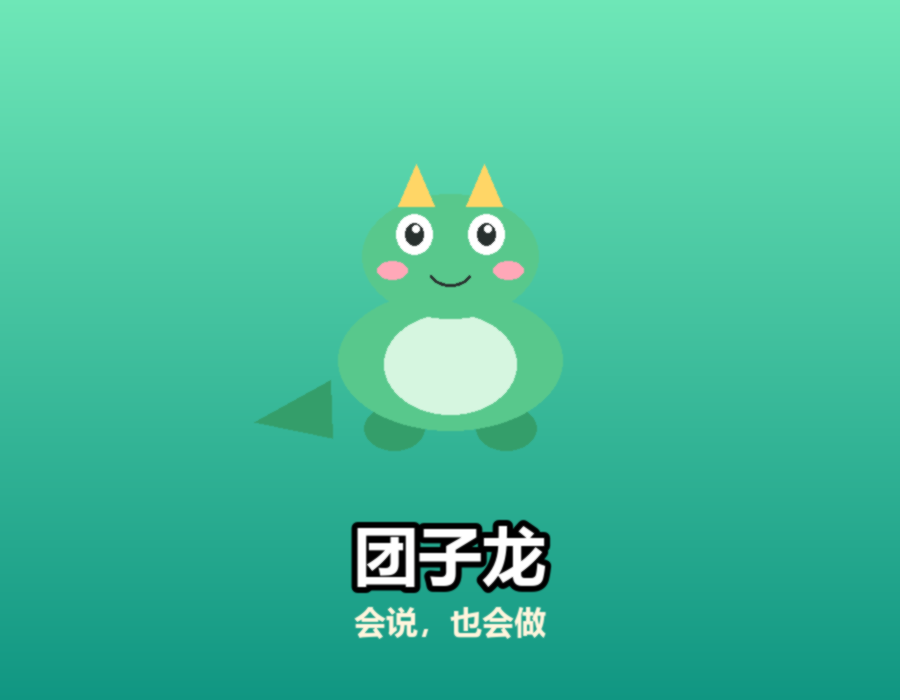
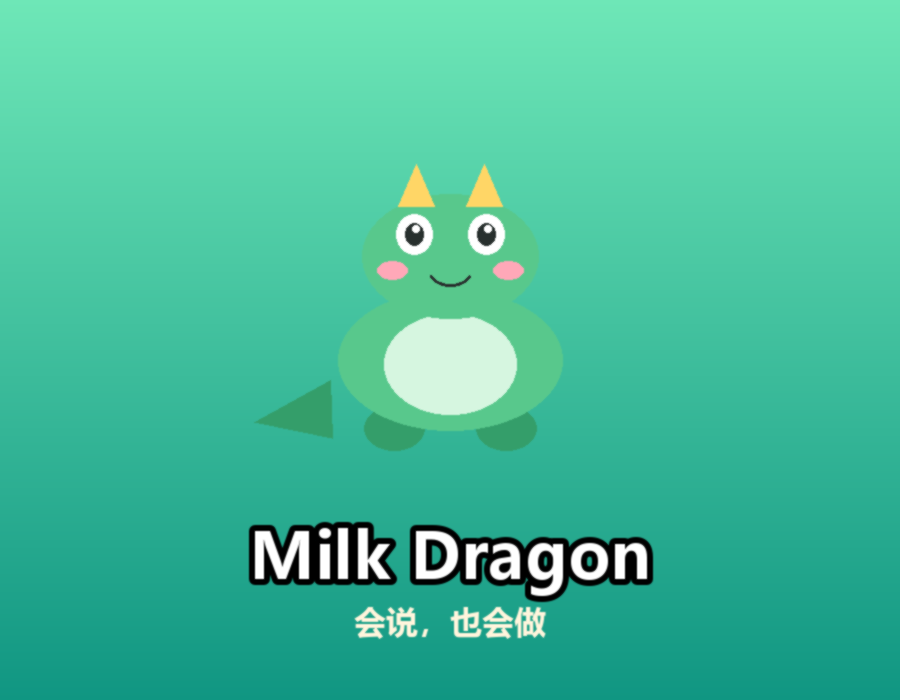
refactor: 智能体更名为 Milk Dragon
- persona.NAME 与全部文案统一改为 Milk Dragon，自称仍保留「本龙」以维持人格
- MCP 服务端标识 tuanzilong-agent → milk-dragon-agent，同步更新冒烟测试断言
- 梗图工具的版式关键词改为小写 milk dragon：规划器归一化会把英文转小写，
  写成大写会匹配不上
- 横幅改为按 East Asian Width 计算内边距：名字由中文变英文后宽度变了，
  原来写死的边框会错位
- 重新生成演示记录与恐龙海报，确保文档里的图与文案与代码一致
- 把本地工作记录目录加入 .gitignore，避免混入作业仓库

Changed region(s): [[0.2489, 0.72, 0.7467, 0.87]]

diff --git a/3124004444/agent/ui/render.py b/3124004444/agent/ui/render.py
@@ -78,10 +78,27 @@ def write(text: str = "") -> None:
         sys.stdout.flush()
 
 
+def _display_width(text: str) -> int:
+    """终端显示宽度：中日韩字符占两列，其余占一列。
+
+    名字从中文换成英文后，原来的固定边框就对不齐了，所以改成按宽度算。
+    """
+    import unicodedata
+
+    width = 0
+    for char in text:
+        width += 2 if unicodedata.east_asian_width(char) in ("W", "F") else 1
+    return width
+
+
 def banner(mode_label: str, channel_label: str, tool_count: int) -> None:
-    write(paint("╭──────────────────────────────────────────────╮", Style.MAGENTA))
-    write(paint("│", Style.MAGENTA) + paint("  团子龙 · 会说也会做的聊天智能体 v0.1  ", Style.BOLD) + paint("│", Style.MAGENTA))
-    write(paint("╰──────────────────────────────────────────────╯", Style.MAGENTA))
+    title = "Milk Dragon · 会说也会做的聊天智能体 v0.1"
+    padding = max(2, (48 - _display_width(title)) // 2)
+    inner = " " * padding + title
+    inner += " " * max(0, 48 - _display_width(inner))
+    write(paint("╭" + "─" * 48 + "╮", Style.MAGENTA))
+    write(paint("│", Style.MAGENTA) + paint(inner, Style.BOLD) + paint("│", Style.MAGENTA))
+    write(paint("╰" + "─" * 48 + "╯", Style.MAGENTA))
     write(paint(f"  模式：{mode_label}", Style.DIM))
     write(paint(f"  通道：{channel_label}　工具：{tool_count} 个", Style.DIM))
     write(paint("  输入 /help 看用法，/tools 看工具，/exit 退出", Style.DIM))
@@ -123,7 +140,7 @@ def reply(text: str) -> None:
     write()
     lines = text.splitlines() or [""]
     for index, line in enumerate(lines):
-        prefix = paint("团子龙 ❯ ", Style.MAGENTA) if index == 0 else " " * 8
+        prefix = paint("Milk Dragon ❯ ", Style.MAGENTA) if index == 0 else " " * 8
         write(prefix + line)
     write()
 

diff --git a/3124004444/agent/ui/web_app.py b/3124004444/agent/ui/web_app.py
@@ -31,7 +31,7 @@ from agent.contracts import ToolCall               # noqa: E402
 from agent.mcp_host.channel import ToolChannel     # noqa: E402
 from agent.memory import Memory                    # noqa: E402
 
-st.set_page_config(page_title="团子龙 · 聊天智能体", page_icon="🐉", layout="wide")
+st.set_page_config(page_title="Milk Dragon · 聊天智能体", page_icon="🐉", layout="wide")
 
 CSS = """
 <style>
@@ -129,7 +129,7 @@ def render_artifacts(artifacts) -> None:
 
 
 def main() -> None:
-    st.title("🐉 团子龙 · 会说也会做的聊天智能体")
+    st.title("🐉 Milk Dragon · 会说也会做的聊天智能体")
     st.caption("自然语言对话 → 意图识别 → 真实工具调用 → 结果回填。试试「帮我查上海未来三天天气，然后画成柱状图」")
 
     with st.sidebar:
@@ -191,7 +191,7 @@ def main() -> None:
             if message.get("artifacts"):
                 render_artifacts(message["artifacts"])
 
-    prompt = st.chat_input("跟团子龙说点什么…")
+    prompt = st.chat_input("跟 Milk Dragon 说点什么…")
     if not prompt:
         return
 
@@ -201,7 +201,7 @@ def main() -> None:
 
     agent = get_agent(mode, channel, offline, max_steps)
     with st.chat_message("assistant"):
-        with st.status("团子龙正在处理…", expanded=True) as status:
+        with st.status("Milk Dragon 正在处理…", expanded=True) as status:
             agent.observer = StreamlitObserver(status)
             try:
                 result = agent.chat(prompt)

diff --git a/3124004444/mcp_server/server.py b/3124004444/mcp_server/server.py
@@ -16,7 +16,7 @@ from mcp.server import MCPServer
 from mcp_server import wrappers
 
 INSTRUCTIONS = (
-    "团子龙是一个会说也会做的中文聊天助手。"
+    "Milk Dragon 是一个会说也会做的中文聊天助手。"
     "它可以把用户指令转成真实的工具调用：计算数学、查询天气、生成图表与梗图、"
     "管理待办清单、在沙箱目录里读写文件、做随机决策。"
     "每次工具调用返回 JSON，字段包含 ok / text / data / artifacts。"
@@ -26,7 +26,7 @@ INSTRUCTIONS = (
 def build_server() -> MCPServer:
     """构建并返回已注册全部工具的 MCP 服务端实例。"""
     server = MCPServer(
-        "tuanzilong-agent",
+        "milk-dragon-agent",
         version="0.1.0",
         instructions=INSTRUCTIONS,
     )

diff --git a/3124004444/tests/test_planner_intents.py b/3124004444/tests/test_planner_intents.py
@@ -79,7 +79,7 @@ CASES: list[tuple[str, str | None, dict[str, Any]]] = [
     # ---------------- 梗图 ----------------
     ("画个梗图：周五了", "make_meme", {"style": "impact", "text": "周五了"}),
     ("做个表情包「今天不想上班」", "make_meme", {"text": _contains("今天不想上班")}),
-    ("做张海报：团子龙新品发布", "make_meme", {"style": "poster"}),
+    ("做张海报：Milk Dragon 新品发布", "make_meme", {"style": "poster"}),
     ("来一张恐龙海报", "make_meme", {"style": "dragon"}),
     # ---------------- ASCII ----------------
     ("把 HI 转成字符画", "make_ascii_art", {"text": _contains("hi")}),

diff --git a/3124004444/agent/ui/cli.py b/3124004444/agent/ui/cli.py
@@ -148,7 +148,7 @@ def repl(agent, settings) -> int:
 def parse_args(argv: list[str] | None = None) -> argparse.Namespace:
     parser = argparse.ArgumentParser(
         prog="agent.ui.cli",
-        description="团子龙 —— 会说也会做的聊天智能体",
+        description="Milk Dragon —— 会说也会做的聊天智能体",
     )
     parser.add_argument("-c", "--command", help="只执行一条指令后退出")
     parser.add_argument("--demo", action="store_true", help="依次执行内置演示指令")

diff --git a/3124004444/agent/tools/meme.py b/3124004444/agent/tools/meme.py
@@ -247,7 +247,7 @@ def _style_note(canvas: Image.Image, text: str, subtext: str, palette: str) -> N
         sub_font = pillow_font(32, bold=False)
         draw.text((78, y + 20), subtext, font=sub_font, fill=(140, 128, 108))
 
-    draw.text((WIDTH - 150, HEIGHT - 70), "—— 团子龙", font=pillow_font(26, bold=False), fill=(170, 158, 138))
+    draw.text((WIDTH - 150, HEIGHT - 70), "—— Milk Dragon", font=pillow_font(26, bold=False), fill=(170, 158, 138))
     canvas.paste(paper, (0, 0))
 
 

diff --git a/3124004444/agent/planner/lexicon.py b/3124004444/agent/planner/lexicon.py
@@ -188,7 +188,7 @@ MEME_STYLES: dict[str, str] = {
     "梗图": "impact", "表情包": "impact", "大字": "impact",
     "便签": "note", "便条": "note", "纸条": "note",
     "海报": "poster", "宣传": "poster",
-    "恐龙": "dragon", "团子龙": "dragon", "小恐龙": "dragon",
+    "恐龙": "dragon", "milk dragon": "dragon", "小恐龙": "dragon",
 }
 
 #: 文件扩展名白名单（与 sandbox 保持一致，用于给未写扩展名的路径补全）

diff --git a/3124004444/agent/persona.py b/3124004444/agent/persona.py
@@ -1,4 +1,4 @@
-"""团子龙的人格与台词。
+"""Milk Dragon 的人格与台词。
 
 把「说话风格」集中在一个文件里，好处是：
 - 想改语气只改这里，不用翻遍工具实现
@@ -14,7 +14,7 @@ from __future__ import annotations
 import hashlib
 from typing import Sequence
 
-NAME = "团子龙"
+NAME = "Milk Dragon"
 SELF = "本龙"
 
 _GREETINGS = (

diff --git a/3124004444/agent/tools/files.py b/3124004444/agent/tools/files.py
@@ -161,5 +161,5 @@ def run(args: dict) -> ToolResult:
 
 
 if __name__ == "__main__":
-    print(run({"action": "write", "path": "demo.md", "content": "# 你好\n这是团子龙写的。"}).text)
+    print(run({"action": "write", "path": "demo.md", "content": "# 你好\n这是 Milk Dragon 写的。"}).text)
     print(run({"action": "list"}).text)

diff --git a/3124004444/tests/test_mcp_smoke.py b/3124004444/tests/test_mcp_smoke.py
@@ -59,7 +59,7 @@ def test_握手并列出工具() -> None:
         "make_chart", "make_meme", "make_ascii_art", "files",
     }
     assert elapsed < HANDSHAKE_BUDGET
-    assert info is not None and info.name == "tuanzilong-agent"
+    assert info is not None and info.name == "milk-dragon-agent"
 
 
 def test_通过协议调用工具() -> None:

diff --git a/3124004444/tests/test_web_app.py b/3124004444/tests/test_web_app.py
@@ -28,7 +28,7 @@ def app() -> AppTest:
 def test_页面能正常渲染(app: AppTest) -> None:
     assert not app.exception
     assert app.title
-    assert "团子龙" in app.title[0].value
+    assert "Milk Dragon" in app.title[0].value
 
 
 def test_侧栏有模式与通道选择(app: AppTest) -> None:

diff --git a/3124004444/scripts/demo.py b/3124004444/scripts/demo.py
@@ -98,7 +98,7 @@ def main() -> int:
     )
 
     sections: list[str] = [
-        "# 团子龙演示记录",
+        "# Milk Dragon 演示记录",
         "",
         f"- 生成时间：{time.strftime('%Y-%m-%d %H:%M:%S')}",
         f"- 规划器：{settings.mode_label}",
